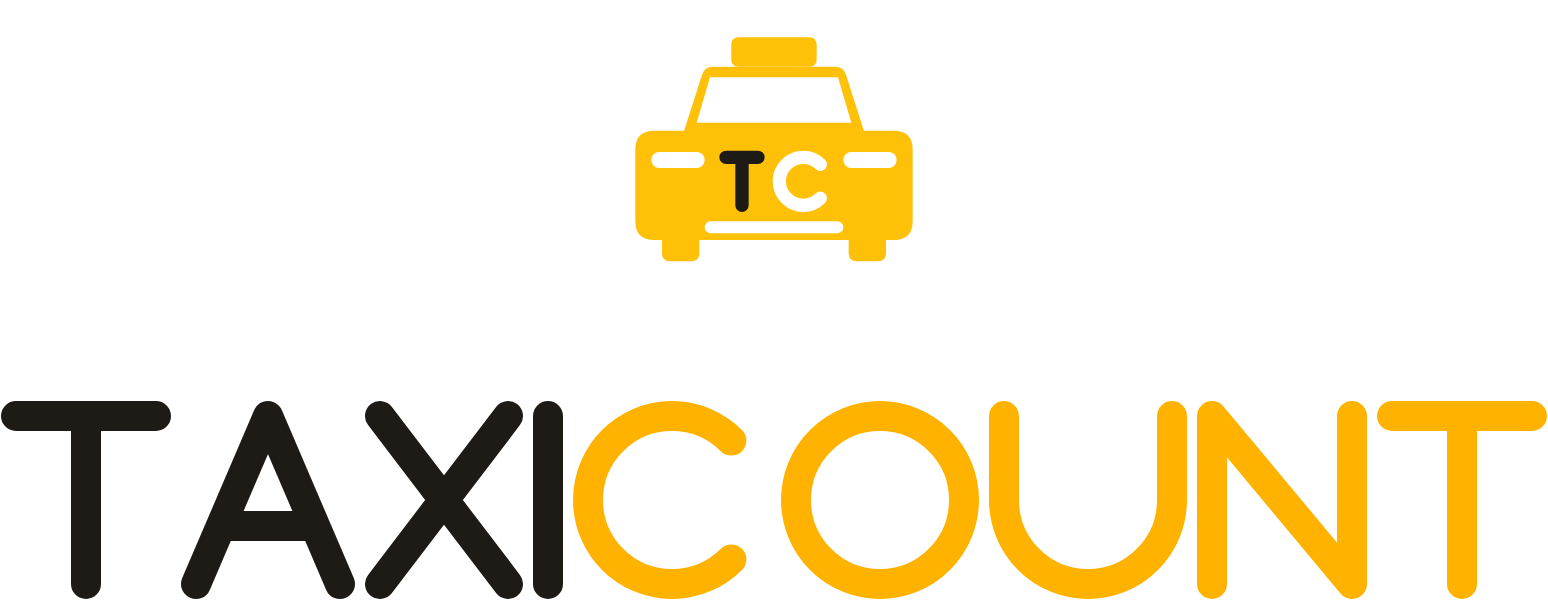
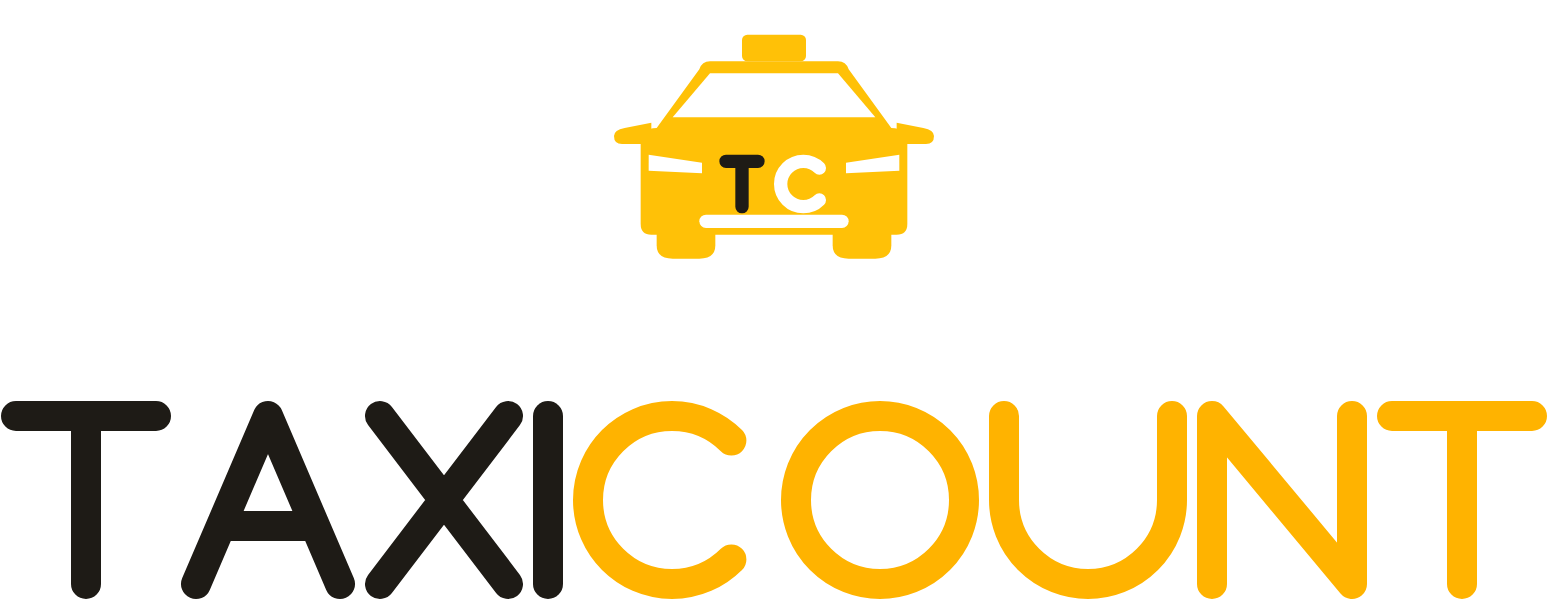
refactor(branding): frontal de coche moderno segun referencias del usuario
Segunda iteracion de la carroceria, a partir de fotos e ilustraciones de
frontales que paso el usuario:
- Parabrisas panoramico: la cabina pasa a ocupar casi todo el ancho (base
  16-104 en vez de 28-92) con montantes muy inclinados.
- Retrovisores que sobresalen del hombro, pegados a la carroceria.
- Faros barridos hacia dentro en vez de ovalos, y ruedas asomando abajo.
- Ruedas en ambar, no en negro (probado y descartado por el usuario).

Changed region(s): [[0.3721, 0.06, 0.6202, 0.45]]

diff --git a/brand/README.md b/brand/README.md
@@ -32,9 +32,12 @@ porque la representación oficial no debe depender del color del soporte.
 
 ## Concepto
 
-Un **SUV moderno visto de frente**, con módulo de taxi plano en el techo, faros de ranura
-finos, toma de aire inferior y cristal amplio — lenguaje de coche actual, no de taxi
-antiguo. En la parrilla central va el **monograma TC**: la T en negro cálido y la C calada,
+Un **coche moderno visto de frente**, en el lenguaje de las ilustraciones de automoción
+actuales: parabrisas panorámico que llega casi hasta los retrovisores, montantes muy
+inclinados, retrovisores que sobresalen del hombro, faros barridos hacia dentro, toma de
+aire inferior, ruedas asomando bajo la carrocería y módulo de taxi plano en el techo. Nada
+del taxi cuadrado de siempre. En la parrilla central va el **monograma TC**: la T en negro
+cálido y la C calada,
 de modo que la C toma el color de lo que haya detrás (ámbar en el icono de aplicación, que
 es el color con el que "COUNT" aparece en el logotipo).
 
